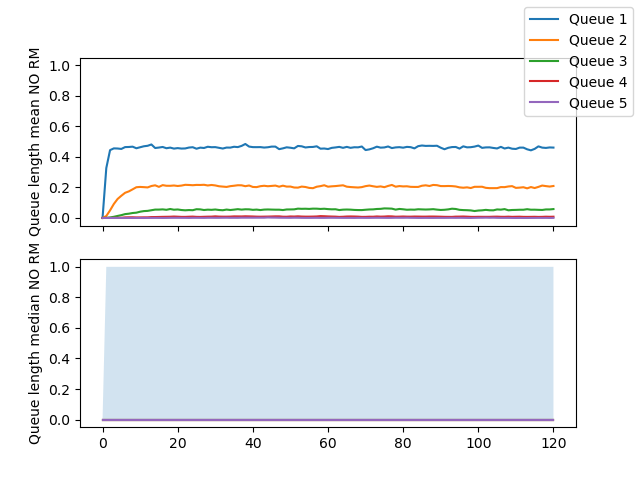
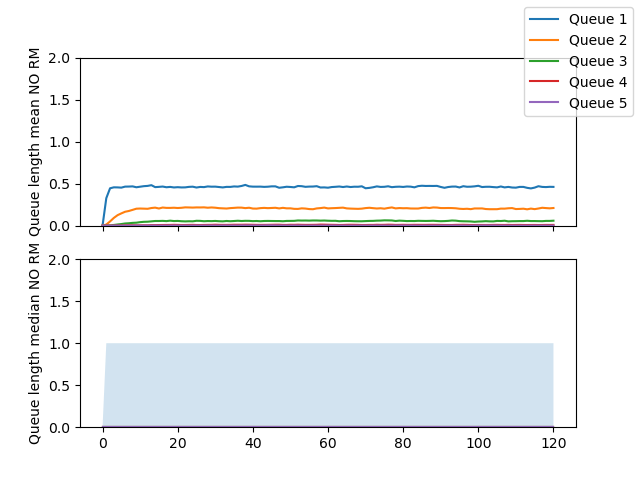
deleted unnecessary files

diff --git a/Agent_Based_Modelling/resource_management.py b/Agent_Based_Modelling/resource_management.py
@@ -132,6 +132,8 @@ def compare_queue_length_statistics(queue_length_data_rm, queue_length_data_no_r
 
     ax[0].set_ylabel('Queue length mean RM')
     ax[1].set_ylabel('Queue length median RM')
+    ax[0].set_ylim(0, 2)
+    ax[1].set_ylim(0, 2)
     fig.legend(loc='upper right')
     plt.show()
 
@@ -152,6 +154,8 @@ def compare_queue_length_statistics(queue_length_data_rm, queue_length_data_no_r
 
     ax[0].set_ylabel('Queue length mean NO RM')
     ax[1].set_ylabel('Queue length median NO RM')
+    ax[0].set_ylim(0, 2)
+    ax[1].set_ylim(0, 2)
     fig.legend(loc='upper right')
     plt.show()
 

diff --git a/Agent_Based_Modelling/testing_queueing_strategies.py b/Agent_Based_Modelling/testing_queueing_strategies.py
@@ -1,10 +1,11 @@
+# monte carlo simulations for the multi queue model
+
 import itertools
 import numpy as np
 import matplotlib.pyplot as plt
 import agents
 import events
 import timeseries_tools
-import heapq
 
 
 # simulates multi queue scenario and returns data as timeseries_tools.TimeStepFunction